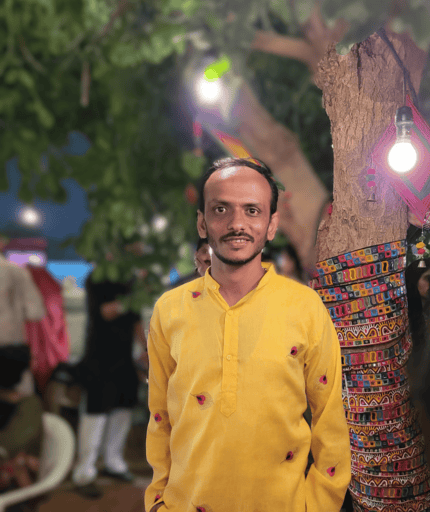
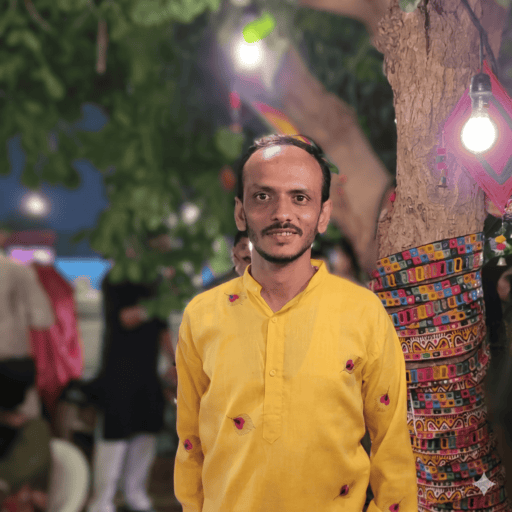
update1

diff --git a/index.html b/index.html
@@ -6,10 +6,12 @@
     <meta charset="utf-8">
     <meta http-equiv="X-UA-Compatible" content="IE=edge">
     <meta name="viewport" content="width=device-width, initial-scale=1">
-    <meta name="description" content="Unity Game Programmer, Designer and Developer Portfolio of Neeraj Thakur, IIT Kanpur B.Tech gradutate. Experienced in Unity3D, C#, C++, Js, Gameplay Prototyping, Android Programming, Shader and many more.">
+    <meta name="description"
+        content="Unity Game Programmer, Designer and Developer Portfolio of Neeraj Thakur, IIT Kanpur B.Tech gradutate. Experienced in Unity3D, C#, C++, Js, Gameplay Prototyping, Android Programming, Shader and many more.">
     <meta name="author" content="Denish Makadiya, denish.makadiya@zohomail.com">
-    <meta name="keywords" content="Game, Programmer, Gameplay, Developer, Indie, Designer, Designer, Portfolio, Unity, Unity3D, C#, C++,C,Python, Js, IIT, IITK, India, Indian, Institute of Technology, Kanpur, AR, Augmented, VR, Virtual, MR, Mixed, Reality, Homography, Google, Android, Carboard, Microsoft, Code.fun.do, Shader, Cg, HLSL, AI, 3D, 2D, Neeraj, Thakur">
-    <meta property="og:image" content="img/neeraj.jpg">
+    <meta name="keywords"
+        content="Game, Programmer, Gameplay, Developer, Indie, Designer, Designer, Portfolio, Unity, Unity3D, C#, C++,C,Python, Js, IIT, IITK, India, Indian, Institute of Technology, Kanpur, AR, Augmented, VR, Virtual, MR, Mixed, Reality, Homography, Google, Android, Carboard, Microsoft, Code.fun.do, Shader, Cg, HLSL, AI, 3D, 2D, Neeraj, Thakur">
+    <meta property="og:image" content="img/Denish.jpg">
     <meta name="google-site-verification" content="xDJyLqBjXRWvHO2nDuwWnZPF6ohX08uhF4eCDptAahg" />
 
     <title>Unity Game Programmer Portfolio, Denish Makadiya</title>
@@ -44,7 +46,8 @@
         <div class="container">
             <!-- Brand and toggle get grouped for better mobile display -->
             <div class="navbar-header page-scroll">
-                <button type="button" class="navbar-toggle" data-toggle="collapse" data-target="#bs-example-navbar-collapse-1">
+                <button type="button" class="navbar-toggle" data-toggle="collapse"
+                    data-target="#bs-example-navbar-collapse-1">
                     <span class="sr-only">Toggle navigation</span> Menu <i class="fa fa-bars"></i>
                 </button>
                 <a class="navbar-brand page-scroll" href="#page-top">Denish Makadiya</a>
@@ -73,9 +76,10 @@
             <!-- /.navbar-collapse -->
         </div>
         <!-- /.container-fluid -->
-    </nav>     
+    </nav>
     <!-- Loader -->
-    <div id="loader" class="fa-stack fa-4x" style="position: fixed; bottom: 0px; right: 0px;padding-bottom: 9%;padding-right: 16%;z-index: 1051;">
+    <div id="loader" class="fa-stack fa-4x"
+        style="position: fixed; bottom: 0px; right: 0px;padding-bottom: 9%;padding-right: 16%;z-index: 1051;">
         <i class="fa fa-gamepad fa-stack-1x text-primary"></i>
         <i class="fa fa-circle-o-notch fa-stack-2x text-primary loader-spinner"></i>
     </div>
@@ -85,8 +89,9 @@
         <div class="container">
             <div class="intro-text">
                 <div class="intro-heading">Denish Makdiya</div>
-                <div class="intro-lead-in">Senior Unity 3D & Game Development Engineer | Multiplayer,AR/VR & EdTech Specialist Software Developer with Expertise in MAUI, XR, and Indie Game Design</div>
-               
+                <div class="intro-lead-in">Senior Unity 3D & Game Development Engineer | Multiplayer,AR/VR & EdTech
+                    Specialist Software Developer with Expertise in MAUI, XR, and Indie Game Design</div>
+
                 <!-- <div class="intro-lead-in">(Looking for opportunities)</div> -->
                 <br>
                 <br>
@@ -111,7 +116,10 @@
                         <i class="fa fa-file-code-o fa-stack-1x fa-inverse"></i>
                     </span>
                     <h4 class="prologue-heading">Technical Skills</h4>
-                    <p class="text-muted">Unity 3D/2D Development, Game Programming (C#), Multiplayer Systems, AR/VR Development, EdTech Solutions, .NET MAUI Development, Cross-Platform Development, Asset Integration, Game Performance Optimization, Unity Game Design, Socket.io Integration, Problem Solving.</p>
+                    <p class="text-muted">Unity 3D/2D Development, Game Programming (C#), Multiplayer Systems, AR/VR
+                        Development, EdTech Solutions, .NET MAUI Development, Cross-Platform Development, Asset
+                        Integration, Game Performance Optimization, Unity Game Design, Socket.io Integration, Problem
+                        Solving.</p>
                 </div>
                 <div class="col-md-4">
                     <span class="fa-stack fa-4x">
@@ -127,7 +135,8 @@
                         <i class="fa fa-gears fa-stack-1x fa-inverse"></i>
                     </span>
                     <h4 class="prologue-heading">Hobbies</h4>
-                    <p class="text-muted">Science, Anime, Manga, Violin, Painting, Games, Arts and Craft, Music, Keyboard Piano, Writing, Reading.</p>
+                    <p class="text-muted">Science, Anime, Manga, Violin, Painting, Games, Arts and Craft, Music,
+                        Keyboard Piano, Writing, Reading.</p>
                 </div>
             </div>
         </div>
@@ -144,7 +153,8 @@
             </div>
             <div class="row">
                 <div id="portfolio-element" class="col-md-4 col-sm-6 portfolio-item">
-                    <a id="" onclick="ShowProjectModal(id)" href="#portfolioModal" class="portfolio-link" data-toggle="modal">
+                    <a id="" onclick="ShowProjectModal(id)" href="#portfolioModal" class="portfolio-link"
+                        data-toggle="modal">
                         <div class="portfolio-hover">
                             <div class="portfolio-hover-content">
                                 <i class="fa fa-plus fa-3x"></i>
@@ -163,7 +173,8 @@
 
     <!-- Resume -->
     <div class="resume-scroller" id="resume">
-        <iframe id="resume-iframe" src="resume/index.html" style="width: 100%;border: 0!important;" onload="OnResumeIframeLoad()" ></iframe>
+        <iframe id="resume-iframe" src="resume/index.html" style="width: 100%;border: 0!important;"
+            onload="OnResumeIframeLoad()"></iframe>
     </div>
 
     <!-- Blogs Section -->
@@ -190,57 +201,67 @@
             <div class="row">
                 <div class="col-sm-4">
                     <div class="team-member">
-                        <img src="img/neeraj.jpg" class="img-responsive img-circle" alt="Denish Makadiya, Sr. Unity & Game Programmer" title="Denish Makadiya">
+                        <img src="img/neeraj.jpg" class="img-responsive img-circle"
+                            alt="Denish Makadiya, Sr. Unity & Game Programmer" title="Denish Makadiya">
                         <h4>Denish Makadiya</h4>
                         <p class="text-muted">Sr. Unity & Game Programmer</p>
                         <ul class="list-inline social-buttons">
                             <li><a href="mailto:denish.makadiya@zohomail.com"><i class="fa fa-envelope"></i></a>
                             </li>
-                            <li><a target="_blank" href="https://www.facebook.com/NrjNicks"><i class="fa fa-facebook"></i></a>
+                            <li><a target="_blank" href="https://www.facebook.com/NrjNicks"><i
+                                        class="fa fa-facebook"></i></a>
                             </li>
-                            <li><a target="_blank" href="https://www.linkedin.com/in/denish-makadiya-a0b776ab/"><i class="fa fa-linkedin"></i></a>
+                            <li><a target="_blank" href="https://www.linkedin.com/in/denish-makadiya-a0b776ab/"><i
+                                        class="fa fa-linkedin"></i></a>
                             </li>
-                           
+
                         </ul>
                     </div>
                 </div>
                 <div class="col-sm-8">
-                    <p class="text-muted text-justify">I am Denish Makadiya, graduate from IIT Kanpur. I am a game programmer and developer; On path of becoming a game designer. If you liked my work (I like you already), let's get in contact.<br><br>
-                    <a href="mailto:denish.makadiya@zohomail.com"><span class="fa-stack fa-2x">
-                        <i class="fa fa-circle fa-stack-2x text-primary"></i>
-                        <i class="fa fa-envelope fa-stack-1x fa-inverse"></i>
-                    </span> denish.makadiya@zohomail.com</a>
-                    <br>
-                    <a href="tel:+919723428591"><span class="fa-stack fa-2x">
-                        <i class="fa fa-circle fa-stack-2x text-primary"></i>
-                        <i class="fa fa-phone fa-stack-1x fa-inverse"></i>
-                    </span>+91 9723428591</a>
-                    <br>
-                    <a target="_blank" href="https://api.whatsapp.com/send?phone=919723428591"><span class="fa-stack fa-2x">
-                            <i class="fa fa-circle fa-stack-2x text-primary"></i>
-                            <i class="fa fa-whatsapp fa-stack-1x fa-inverse"></i>
-                        </span>+91 9723428591</a>
+                    <p class="text-muted text-justify">I am Denish Makadiya, graduate from IIT Kanpur. I am a game
+                        programmer and developer; On path of becoming a game designer. If you liked my work (I like you
+                        already), let's get in contact.<br><br>
+                        <a href="mailto:denish.makadiya@zohomail.com"><span class="fa-stack fa-2x">
+                                <i class="fa fa-circle fa-stack-2x text-primary"></i>
+                                <i class="fa fa-envelope fa-stack-1x fa-inverse"></i>
+                            </span> denish.makadiya@zohomail.com</a>
+                        <br>
+                        <a href="tel:+919723428591"><span class="fa-stack fa-2x">
+                                <i class="fa fa-circle fa-stack-2x text-primary"></i>
+                                <i class="fa fa-phone fa-stack-1x fa-inverse"></i>
+                            </span>+91 9723428591</a>
+                        <br>
+                        <a target="_blank" href="https://api.whatsapp.com/send?phone=919723428591"><span
+                                class="fa-stack fa-2x">
+                                <i class="fa fa-circle fa-stack-2x text-primary"></i>
+                                <i class="fa fa-whatsapp fa-stack-1x fa-inverse"></i>
+                            </span>+91 9723428591</a>
                     </p>
                 </div>
             </div>
             <br>
             <div class="row">
-               
+
             </div>
         </div>
     </section>
 
     <footer>
-        <p class="text-muted"><i>Thank you for visiting my portfolio.<br>I appreciate your time have a fantastic day!</i></p>
+        <p class="text-muted"><i>Thank you for visiting my portfolio.<br>I appreciate your time have a fantastic
+                day!</i></p>
     </footer>
 
     <!-- Use the modals below to showcase details about your portfolio projects! -->
     <!-- Portfolio Modals -->
-    <div class="portfolio-modal modal fade" id="portfolioModal" tabindex="-1" role="dialog" aria-hidden="true" style="display: none;">
+    <div class="portfolio-modal modal fade" id="portfolioModal" tabindex="-1" role="dialog" aria-hidden="true"
+        style="display: none;">
         <div class="modal-dialog">
             <div class="modal-content">
                 <div onclick="ResetModalParams()" class="close-modal" data-dismiss="modal">
-                    <div class="lr"><div class="rl"></div></div>
+                    <div class="lr">
+                        <div class="rl"></div>
+                    </div>
                 </div>
                 <div class="container">
                     <div class="row">
@@ -248,24 +269,27 @@
                             <div class="modal-body">
                                 <!-- Project Details Go Here -->
                                 <h2><span id="modal-projectname">Project Name</span></h2>
-                                <p class="item-intro text-muted"><span id="modal-projectsmalldescription">Small Desc</span></p>
-                                <iframe id="modal-videoiframe" width="560" height="315" src="" frameborder="0" allow="autoplay; encrypted-media" allowfullscreen></iframe>
+                                <p class="item-intro text-muted"><span id="modal-projectsmalldescription">Small
+                                        Desc</span></p>
+                                <iframe id="modal-videoiframe" width="560" height="315" src="" frameborder="0"
+                                    allow="autoplay; encrypted-media" allowfullscreen></iframe>
                                 <br><br><br>
                                 <!-- Portfolio Corousel Go Here -->
-                                <div class="container" style="width: 100%;padding: 0%"> 
+                                <div class="container" style="width: 100%;padding: 0%">
                                     <div id="portfolio-carousel" class="carousel slide" data-ride="carousel">
                                         <!-- Indicators -->
                                         <ol class="carousel-indicators">
-                                            <li id="portfolio-carousel-indicator" data-target="#portfolio-carousel" class="active" data-slide-to="0"></li>
+                                            <li id="portfolio-carousel-indicator" data-target="#portfolio-carousel"
+                                                class="active" data-slide-to="0"></li>
                                         </ol>
-                                    
+
                                         <!-- Wrapper for slides -->
                                         <div class="carousel-inner">
                                             <div id="portfolio-carousel-inner" class="item active">
                                                 <img src="" style="width: 100%; margin: 0%;">
                                             </div>
                                         </div>
-                                    
+
                                         <!-- Left and right controls -->
                                         <a class="left carousel-control" href="#portfolio-carousel" data-slide="prev">
                                             <span class="glyphicon glyphicon-chevron-left"></span>
@@ -282,15 +306,19 @@
                                     <p>Information goes here</p>
                                 </div>
                                 <br>
-                                <a id="modal-downloadlink" type="button" target="_blank" class="btn btn-xl"><i class="fa fa-link"></i>  Download Link</a>
+                                <a id="modal-downloadlink" type="button" target="_blank" class="btn btn-xl"><i
+                                        class="fa fa-link"></i> Download Link</a>
                                 <br><br>
                                 <div>
-                                <button onclick="ShowPreviousProjectModal()" type="button" class="btn btn-primary" style="float: left;"><i class="fa fa-arrow-left"></i> Previous Project</button>
-                                <button onclick="ShowNextProjectModal()" type="button" class="btn btn-primary" style="float: right;">Next Project <i class="fa fa-arrow-right"></i></button>
+                                    <button onclick="ShowPreviousProjectModal()" type="button" class="btn btn-primary"
+                                        style="float: left;"><i class="fa fa-arrow-left"></i> Previous Project</button>
+                                    <button onclick="ShowNextProjectModal()" type="button" class="btn btn-primary"
+                                        style="float: right;">Next Project <i class="fa fa-arrow-right"></i></button>
                                 </div>
                                 <br><br>
                                 <div>
-                                    <button onclick="ResetModalParams()" type="button" class="btn page-scroll" data-dismiss="modal"><i class="fa fa-times"></i> Close Project</button>
+                                    <button onclick="ResetModalParams()" type="button" class="btn page-scroll"
+                                        data-dismiss="modal"><i class="fa fa-times"></i> Close Project</button>
                                 </div>
                             </div>
                         </div>
@@ -300,7 +328,7 @@
         </div>
     </div>
 
-    
+
     <!-- jQuery -->
     <script src="vendor/jquery/jquery.min.js"></script>
 
